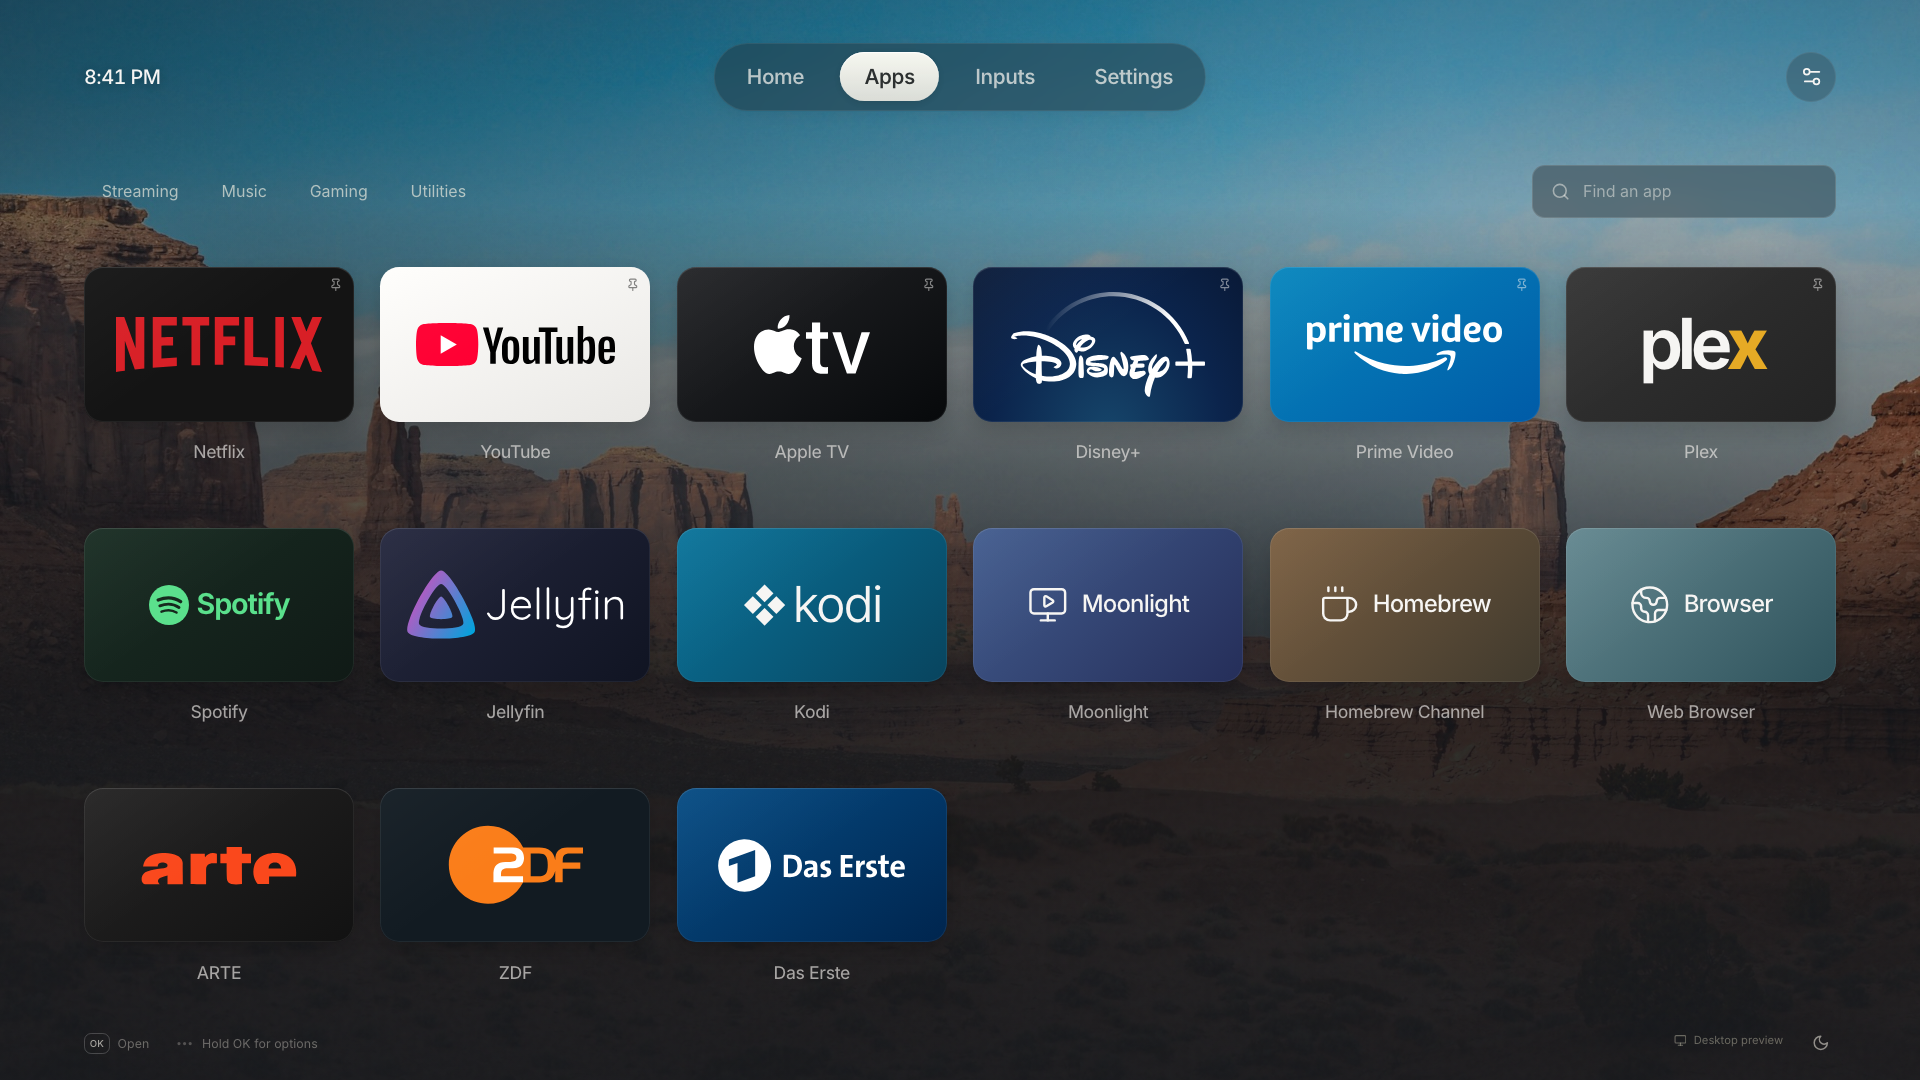
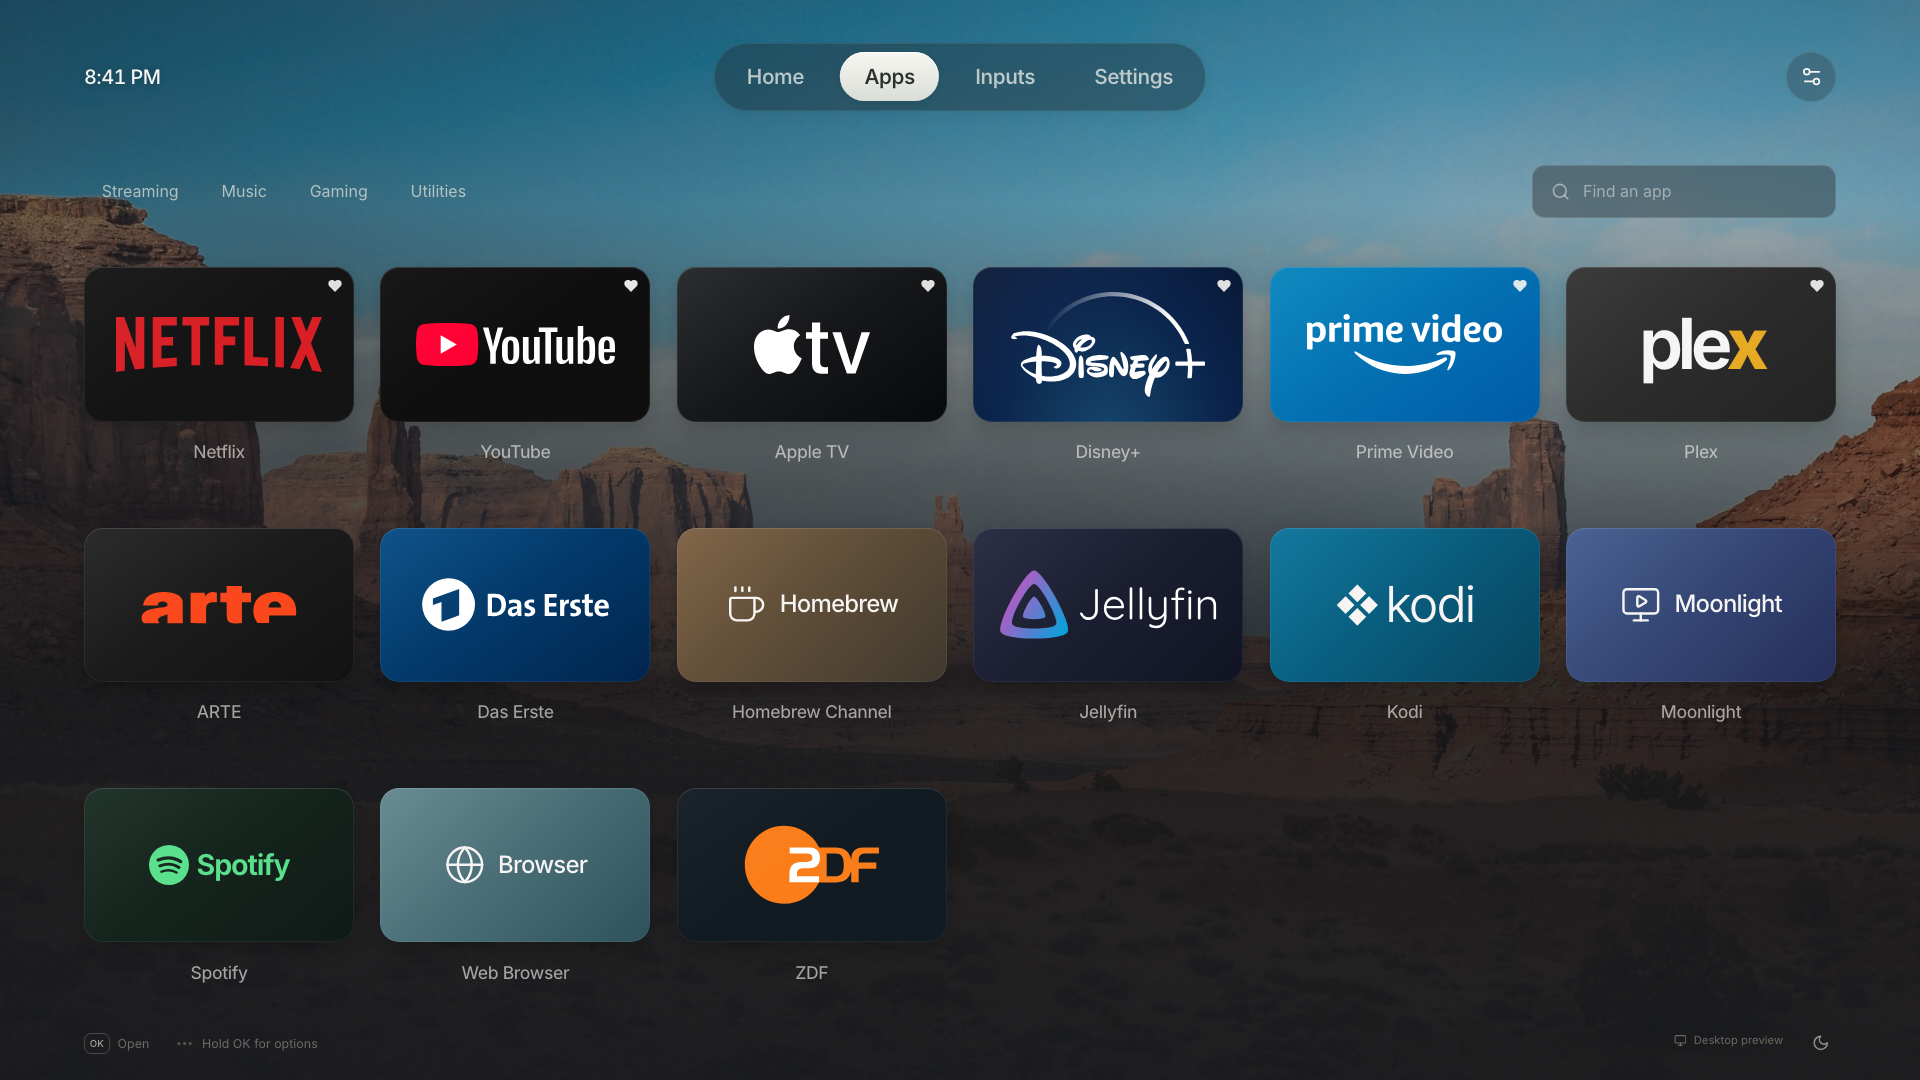
style: tweak badges and dialogs

diff --git a/src/app.tsx b/src/app.tsx
@@ -72,14 +72,17 @@ export function App() {
     appMap.get(id) && !preferences.hidden.includes(id) ? [appMap.get(id)!] : [],
   );
   const hiddenCount = inventory.apps.filter((app) => preferences.hidden.includes(app.id)).length;
-  const visibleApps = inventory.apps.filter(
-    (app) => showHidden ? preferences.hidden.includes(app.id) : !preferences.hidden.includes(app.id),
+  const visibleApps = inventory.apps.filter((app) =>
+    showHidden ? preferences.hidden.includes(app.id) : !preferences.hidden.includes(app.id),
   );
-  const filteredApps = sortApps(visibleApps.filter(
-    (app) =>
-      (!category || app.category === category) &&
-      app.title.toLocaleLowerCase().includes(query.toLocaleLowerCase()),
-  ), favoriteIds);
+  const filteredApps = sortApps(
+    visibleApps.filter(
+      (app) =>
+        (!category || app.category === category) &&
+        app.title.toLocaleLowerCase().includes(query.toLocaleLowerCase()),
+    ),
+    favoriteIds,
+  );
   const date = now.toLocaleDateString(undefined, {
     weekday: 'long',
     month: 'long',
@@ -587,18 +590,36 @@ export function App() {
                           className={`filter-tab${category === item ? ' selected' : ''}`}
                           data-focusable={`filter-${item}`}
                           aria-pressed={category === item}
-                          onClick={() => { setShowHidden(false); setCategory((current) => current === item ? null : item); }}
+                          onClick={() => {
+                            setShowHidden(false);
+                            setCategory((current) => (current === item ? null : item));
+                          }}
                         >
                           {item}
                         </button>
                       ))}
-                      {hiddenCount ? <button className={`filter-tab${showHidden ? ' selected' : ''}`} data-focusable="filter-hidden" aria-pressed={showHidden} onClick={() => { setCategory(null); setShowHidden((current) => !current); }}>Hidden ({hiddenCount})</button> : null}
+                      {hiddenCount ? (
+                        <button
+                          className={`filter-tab${showHidden ? ' selected' : ''}`}
+                          data-focusable="filter-hidden"
+                          aria-pressed={showHidden}
+                          onClick={() => {
+                            setCategory(null);
+                            setShowHidden((current) => !current);
+                          }}
+                        >
+                          Hidden ({hiddenCount})
+                        </button>
+                      ) : null}
                       {category || showHidden ? (
                         <button
                           className="filter-clear icon-button"
                           data-focusable="filter-clear"
                           aria-label="Clear category filter"
-                          onClick={() => { setCategory(null); setShowHidden(false); }}
+                          onClick={() => {
+                            setCategory(null);
+                            setShowHidden(false);
+                          }}
                         >
                           <X size={16} />
                         </button>
@@ -645,13 +666,17 @@ export function App() {
                           ? 'Finding your apps…'
                           : query
                             ? 'Nothing here. Yet.'
-                            : showHidden ? 'No hidden apps.' : 'A little room for something new.'}
+                            : showHidden
+                              ? 'No hidden apps.'
+                              : 'A little room for something new.'}
                       </h3>
                       <p>
                         {error ||
                           (query
                             ? `No apps match “${query}”. Try another name.`
-                            : showHidden ? 'Apps you hide will appear here.' : 'Apps in this category will appear here.')}
+                            : showHidden
+                              ? 'Apps you hide will appear here.'
+                              : 'Apps in this category will appear here.')}
                       </p>
                       {error ? (
                         <button
@@ -794,7 +819,8 @@ export function App() {
                     : [...favoriteIds, optionsApp.id],
                   hidden: preferences.hidden.filter((id) => id !== optionsApp.id),
                 });
-                if (showHidden && hiddenCount === 1 && preferences.hidden.includes(optionsApp.id)) setShowHidden(false);
+                if (showHidden && hiddenCount === 1 && preferences.hidden.includes(optionsApp.id))
+                  setShowHidden(false);
                 setOptionsApp(null);
                 notify(
                   pinned

diff --git a/tests/launcher.spec.ts b/tests/launcher.spec.ts
@@ -403,7 +403,15 @@ test('connection artwork follows the reported device labels without changing the
     .toEqual(['com.webos.app.hdmi1']);
   await expect(page.getByRole('status')).toHaveCount(0);
   await appleTV.click();
-  await expect.poll(() => page.evaluate(() => (window as any).__calls.filter((call: any) => call.uri.endsWith('/launch')).map((call: any) => call.payload.id))).toEqual(['com.webos.app.hdmi1', 'com.webos.app.hdmi4']);
+  await expect
+    .poll(() =>
+      page.evaluate(() =>
+        (window as any).__calls
+          .filter((call: any) => call.uri.endsWith('/launch'))
+          .map((call: any) => call.payload.id),
+      ),
+    )
+    .toEqual(['com.webos.app.hdmi1', 'com.webos.app.hdmi4']);
 });
 
 test('Home favorites move inline with hold OK and left/right, and Back keeps the order', async ({
@@ -496,7 +504,9 @@ test('Home card captions are opt-in, persist, and do not affect library captions
   await expect(page.locator('.favorites-grid .app-label').first()).toBeHidden();
 });
 
-test('app actions close immediately, keep favorites first, and filter hidden apps in the pills', async ({ page }) => {
+test('app actions close immediately, keep favorites first, and filter hidden apps in the pills', async ({
+  page,
+}) => {
   await page.goto('/');
   await page.getByRole('button', { name: 'Apps', exact: true }).click();
   const browser = page.getByRole('button', { name: 'Open Web Browser', exact: true });
@@ -508,8 +518,14 @@ test('app actions close immediately, keep favorites first, and filter hidden app
   await page.keyboard.press('Enter');
   await expect(page.getByRole('dialog')).toHaveCount(0);
   await expect(browser).toBeFocused();
-  const readFavoriteOrder = () => page.evaluate(() => JSON.parse(localStorage.getItem('luma.preferences.v1')!).favorites as string[]);
-  const readLibraryOrder = () => page.locator('.library-grid [data-app-id]').evaluateAll((nodes) => nodes.map((node) => (node as HTMLElement).dataset.appId));
+  const readFavoriteOrder = () =>
+    page.evaluate(
+      () => JSON.parse(localStorage.getItem('luma.preferences.v1')!).favorites as string[],
+    );
+  const readLibraryOrder = () =>
+    page
+      .locator('.library-grid [data-app-id]')
+      .evaluateAll((nodes) => nodes.map((node) => (node as HTMLElement).dataset.appId));
   let favorites = await readFavoriteOrder();
   expect((await readLibraryOrder()).slice(0, favorites.length)).toEqual(favorites);
   await expect(browser.locator('.favorite-badge')).toBeVisible();
@@ -519,7 +535,10 @@ test('app actions close immediately, keep favorites first, and filter hidden app
   await page.keyboard.press('Enter');
   await expect(page.getByRole('dialog')).toHaveCount(0);
   await expect(browser).toHaveCount(0);
-  await page.locator('.filter-tabs').getByRole('button', { name: 'Hidden (1)', exact: true }).click();
+  await page
+    .locator('.filter-tabs')
+    .getByRole('button', { name: 'Hidden (1)', exact: true })
+    .click();
   await expect(page.locator('.library-grid [data-app-id]')).toHaveCount(1);
   await browser.focus();
   await page.keyboard.press('m');
@@ -532,7 +551,9 @@ test('app actions close immediately, keep favorites first, and filter hidden app
   expect((await readLibraryOrder()).slice(0, favorites.length)).toEqual(favorites);
   await browser.focus();
   await page.keyboard.press('m');
-  await expect(page.getByRole('button', { name: 'Remove from favorites', exact: true })).toBeFocused();
+  await expect(
+    page.getByRole('button', { name: 'Remove from favorites', exact: true }),
+  ).toBeFocused();
   await page.keyboard.press('Enter');
   await expect(page.getByRole('dialog')).toHaveCount(0);
   await expect(browser.locator('.favorite-badge')).toHaveCount(0);

diff --git a/src/components/connection-icon.tsx b/src/components/connection-icon.tsx
@@ -16,7 +16,16 @@ export function ConnectionIcon({ input }: { input: TVInput }) {
     );
   }
   if (/apple[\s._-]*tv/i.test(name)) {
-    return <svg viewBox="0 0 24 24" aria-hidden="true" data-connection-icon="apple-tv" fill="currentColor"><path d="M20.57 17.735h-1.815l-3.34-9.203h1.633l2.02 5.987c.075.231.273.9.586 2.012l.297-.997.33-1.006 2.094-6.004H24zm-5.344-.066a5.76 5.76 0 0 1-1.55.207c-1.23 0-1.84-.693-1.84-2.087V9.646h-1.063V8.532h1.121V7.081l1.476-.602v2.062h1.707v1.113H13.38v5.805c0 .446.074.75.214.932.14.182.396.264.75.264.207 0 .495-.041.883-.115zm-7.29-5.343c.017 1.764 1.55 2.358 1.567 2.366-.017.042-.248.842-.808 1.658-.487.71-.99 1.418-1.79 1.435-.783.016-1.03-.462-1.93-.462-.89 0-1.17.445-1.913.478-.758.025-1.344-.775-1.838-1.484-.998-1.451-1.765-4.098-.734-5.88.51-.89 1.426-1.451 2.416-1.46.75-.016 1.468.512 1.93.512.461 0 1.327-.627 2.234-.536.38.016 1.452.157 2.136 1.154-.058.033-1.278.743-1.27 2.219M6.468 7.988c.404-.495.685-1.18.61-1.864-.585.025-1.294.388-1.723.883-.38.437-.71 1.138-.619 1.806.652.05 1.328-.338 1.732-.825Z" /></svg>;
+    return (
+      <svg
+        viewBox="0 0 24 24"
+        aria-hidden="true"
+        data-connection-icon="apple-tv"
+        fill="currentColor"
+      >
+        <path d="M20.57 17.735h-1.815l-3.34-9.203h1.633l2.02 5.987c.075.231.273.9.586 2.012l.297-.997.33-1.006 2.094-6.004H24zm-5.344-.066a5.76 5.76 0 0 1-1.55.207c-1.23 0-1.84-.693-1.84-2.087V9.646h-1.063V8.532h1.121V7.081l1.476-.602v2.062h1.707v1.113H13.38v5.805c0 .446.074.75.214.932.14.182.396.264.75.264.207 0 .495-.041.883-.115zm-7.29-5.343c.017 1.764 1.55 2.358 1.567 2.366-.017.042-.248.842-.808 1.658-.487.71-.99 1.418-1.79 1.435-.783.016-1.03-.462-1.93-.462-.89 0-1.17.445-1.913.478-.758.025-1.344-.775-1.838-1.484-.998-1.451-1.765-4.098-.734-5.88.51-.89 1.426-1.451 2.416-1.46.75-.016 1.468.512 1.93.512.461 0 1.327-.627 2.234-.536.38.016 1.452.157 2.136 1.154-.058.033-1.278.743-1.27 2.219M6.468 7.988c.404-.495.685-1.18.61-1.864-.585.025-1.294.388-1.723.883-.38.437-.71 1.138-.619 1.806.652.05 1.328-.338 1.732-.825Z" />
+      </svg>
+    );
   }
   if (/(?:^|[\s._-])usb(?:$|[\s._-]|\d)/i.test(name))
     return <Usb strokeWidth={1.5} aria-hidden="true" data-connection-icon="usb" />;

diff --git a/tests/catalog.test.ts b/tests/catalog.test.ts
@@ -1,6 +1,12 @@
 import assert from 'node:assert/strict';
 import { test } from 'node:test';
-import { appIdentity, defaultFavorites, normalizeApps, normalizeInputs, sortApps } from '../src/catalog.ts';
+import {
+  appIdentity,
+  defaultFavorites,
+  normalizeApps,
+  normalizeInputs,
+  sortApps,
+} from '../src/catalog.ts';
 import { parsePreferences } from '../src/storage.ts';
 import { nextFocus, type FocusRect } from '../src/navigation.ts';
 
@@ -78,8 +84,22 @@ test('D-pad navigation prefers the current row and nearest aligned column', () =
 });
 
 test('favorites sort first in saved order, with remaining apps alphabetical and source order intact', () => {
-  const apps = [['z', 'Zulu'], ['a', 'Alpha'], ['c', 'Charlie'], ['b', 'Beta']].map(([id, title]) => appIdentity(id, title));
-  assert.deepEqual(sortApps(apps, ['c', 'missing', 'a']).map((app) => app.id), ['c', 'a', 'b', 'z']);
-  assert.deepEqual(apps.map((app) => app.id), ['z', 'a', 'c', 'b']);
-  assert.deepEqual(sortApps(apps, []).map((app) => app.title), ['Alpha', 'Beta', 'Charlie', 'Zulu']);
+  const apps = [
+    ['z', 'Zulu'],
+    ['a', 'Alpha'],
+    ['c', 'Charlie'],
+    ['b', 'Beta'],
+  ].map(([id, title]) => appIdentity(id, title));
+  assert.deepEqual(
+    sortApps(apps, ['c', 'missing', 'a']).map((app) => app.id),
+    ['c', 'a', 'b', 'z'],
+  );
+  assert.deepEqual(
+    apps.map((app) => app.id),
+    ['z', 'a', 'c', 'b'],
+  );
+  assert.deepEqual(
+    sortApps(apps, []).map((app) => app.title),
+    ['Alpha', 'Beta', 'Charlie', 'Zulu'],
+  );
 });

diff --git a/src/components/dialog.tsx b/src/components/dialog.tsx
@@ -20,9 +20,15 @@ export function Dialog({
   const panel = useRef<HTMLDivElement>(null);
   useLayoutEffect(() => {
     const previous = document.activeElement as HTMLElement | null;
-    (panel.current?.querySelector<HTMLElement>('[data-autofocus]') ?? panel.current?.querySelector<HTMLElement>('[data-focusable]'))?.focus({ preventScroll: true });
+    (
+      panel.current?.querySelector<HTMLElement>('[data-autofocus]') ??
+      panel.current?.querySelector<HTMLElement>('[data-focusable]')
+    )?.focus({ preventScroll: true });
     return () => {
-      const target = previous?.isConnected ? previous : document.querySelector<HTMLElement>('main [data-app-id]') ?? document.querySelector<HTMLElement>('main [data-focusable]');
+      const target = previous?.isConnected
+        ? previous
+        : (document.querySelector<HTMLElement>('main [data-app-id]') ??
+          document.querySelector<HTMLElement>('main [data-focusable]'));
       target?.focus({ preventScroll: true });
       target?.scrollIntoView({ block: 'nearest', inline: 'nearest', behavior: 'instant' });
     };

diff --git a/src/components/app-options.tsx b/src/components/app-options.tsx
@@ -16,7 +16,12 @@ export function AppOptions({ app, favorites, hidden, onClose, onPin, onHide }: P
   return (
     <Dialog title={app.title} subtitle={app.category} onClose={onClose}>
       <div className="settings-group app-actions">
-        <button className="setting-row" data-focusable="option-pin" data-autofocus="true" onClick={onPin}>
+        <button
+          className="setting-row"
+          data-focusable="option-pin"
+          data-autofocus="true"
+          onClick={onPin}
+        >
           <Heart fill={pinned ? 'currentColor' : 'none'} />
           <span>
             <strong>{pinned ? 'Remove from favorites' : 'Add to favorites'}</strong>

diff --git a/src/components/app-tile.tsx b/src/components/app-tile.tsx
@@ -75,7 +75,15 @@ export const AppTile = memo(function AppTile({
     >
       <span className={`app-face brand-${app.brand}`}>
         <Brand app={app} />
-        {pinned ? <Heart className="favorite-badge" size={16} fill="currentColor" strokeWidth={0} aria-label="Favorite" /> : null}
+        {pinned ? (
+          <Heart
+            className="favorite-badge"
+            size={16}
+            fill="currentColor"
+            strokeWidth={0}
+            aria-label="Favorite"
+          />
+        ) : null}
         {reordering ? (
           <span className="reorder-indicator" aria-hidden="true">
             <ArrowLeft size={16} />

diff --git a/src/styles.css b/src/styles.css
@@ -1215,8 +1215,13 @@ button svg {
   border-color: #ffffff20;
   margin-left: 0.5rem;
 }
-.app-actions .setting-row { min-height:4.2rem; padding:1.1rem; }
-.app-actions .setting-row strong { font-size:1.1rem; }
+.app-actions .setting-row {
+  min-height: 4.2rem;
+  padding: 1.1rem;
+}
+.app-actions .setting-row strong {
+  font-size: 1.1rem;
+}
 .small-button {
   width: 2.3rem;
   height: 2.3rem;

diff --git a/assets.md b/assets.md
@@ -11,6 +11,8 @@
 - Interface icons: Lucide, ISC license (dependency license in node_modules/lucide-react/LICENSE).
 - Brand treatments identify installed third-party apps; their names and marks belong to their respective owners. Luma is not affiliated with those companies, Apple, or LG.
 
+Luma's logo is a folded-light **L**: a slanted lavender ribbon turns into a peach-and-rose base. The browser mark and TV app icon share the same vector geometry, sized for a clear silhouette at small icon sizes.
+
 ## Brand SVGs
 
 The requested app logos use downloaded vector artwork, rather than font approximations. SVG outlines are preserved; Apple TV, Disney+, Prime Video, and Das Erste use a white monochrome display treatment for contrast. YouTube's wordmark is recolored white for its dark card, while its play icon stays red. All files are bundled locally under `public/logos/`.
